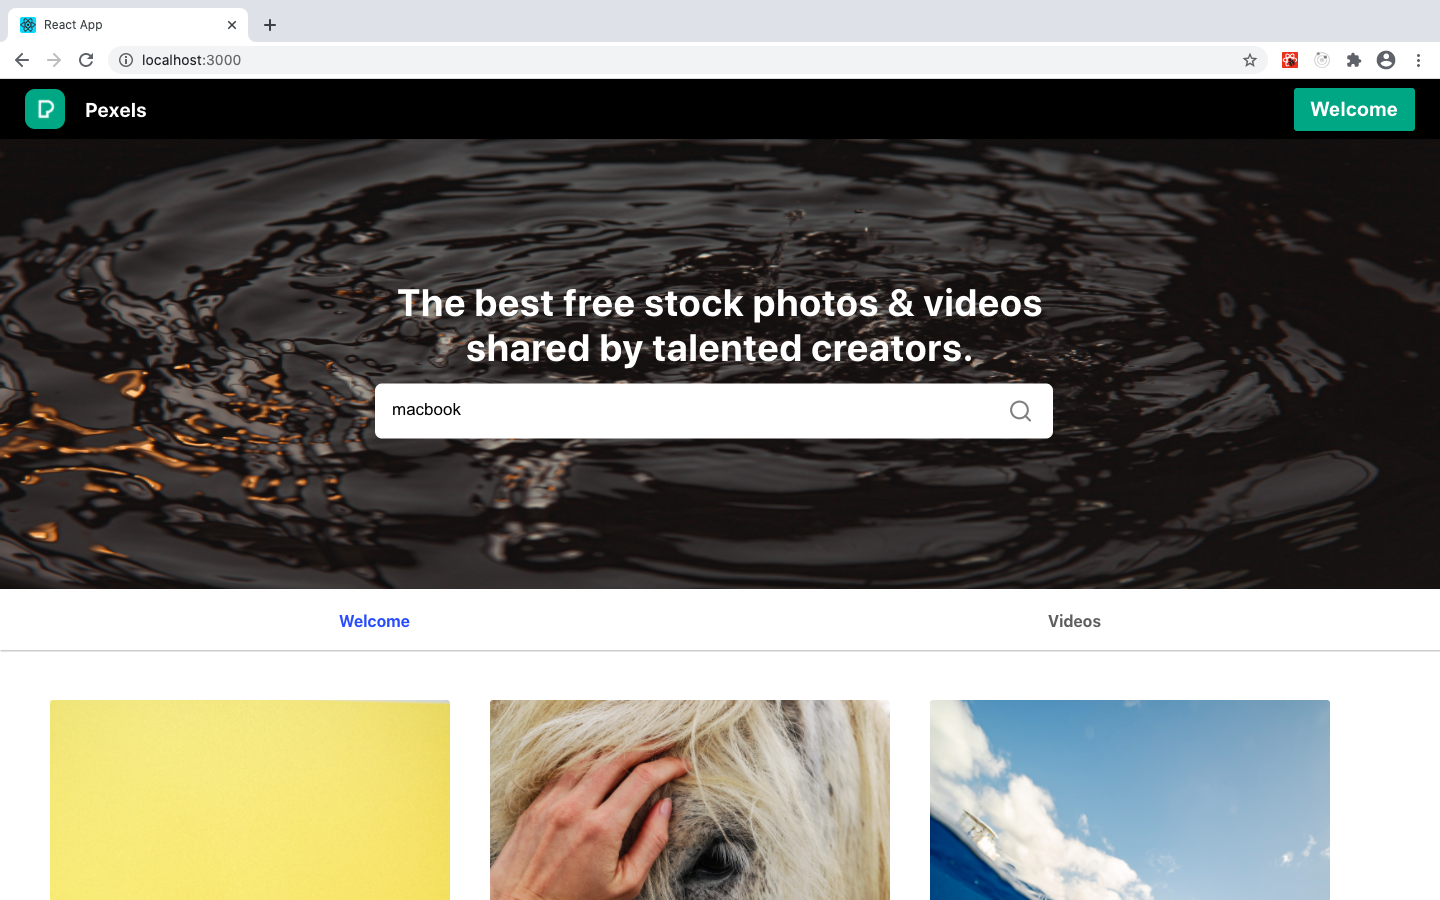
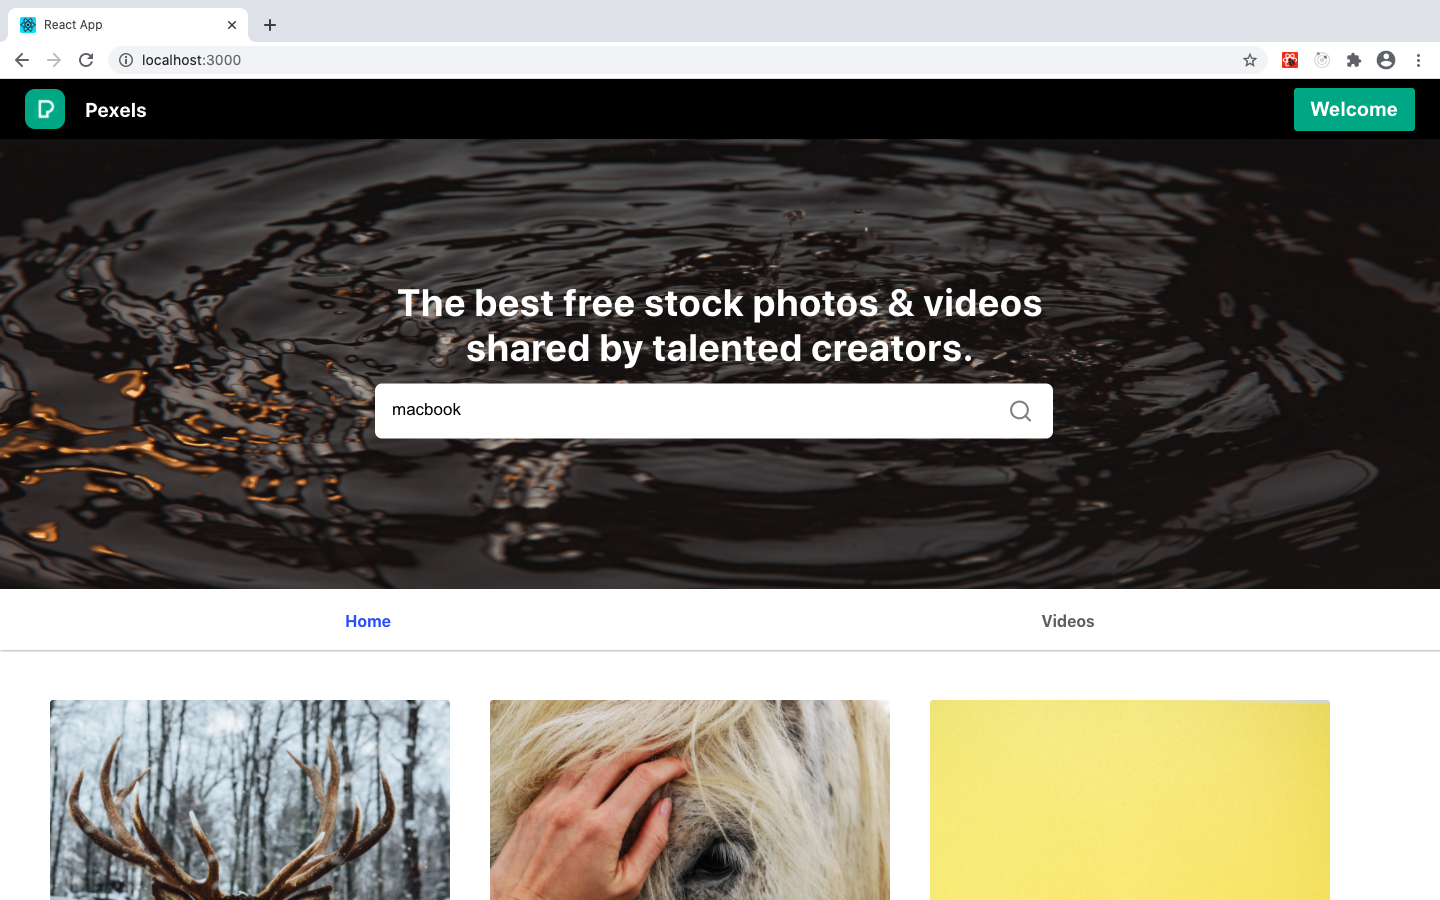
image, nav label changed

diff --git a/src/components/home/Home.jsx b/src/components/home/Home.jsx
@@ -1,8 +1,8 @@
 import React, { Component } from "react";
-import { AppContext } from "./../context/AppContextProvider";
-import NavTab from "./navbar/NavTab";
-import ImageContent from "./imageContent/ImageContent";
-import RenderPhotos from "./render/RenderPhotos";
+import { AppContext } from "../../context/AppContextProvider";
+import NavTab from "../navbar/NavTab";
+import ImageContent from "../imageContent/ImageContent";
+import RenderPhotos from "../render/RenderPhotos";
 
 
 class Home extends Component {

diff --git a/src/components/navbar/NavTab.jsx b/src/components/navbar/NavTab.jsx
@@ -8,7 +8,7 @@ import cStyles from "./../../styles/common.module.css";
 const links = [
   {
     to: { pathname: "/" },
-    title: "Welcome",
+    title: "Home",
   },
   // {
   //   to: "/pages/discover",

diff --git a/src/pages/HomePage.jsx b/src/pages/HomePage.jsx
@@ -1,6 +1,6 @@
 import React from 'react'
 
-import Home from "./../components/Home";
+import Home from "./../components//home/Home";
 
 const HomePage = (props) => {
     return (
